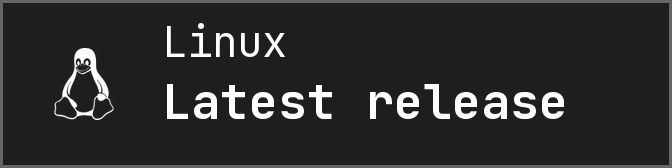
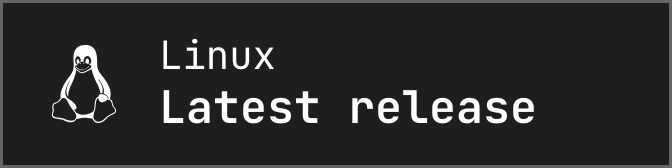
fix(docs): match desktop download badges to mobile
Vis-Session: 59b1f922-0dca-469c-83e7-5149d88409fd

Changed region(s): [[0.2188, 0.4762, 0.8438, 0.744], [0.2188, 0.1488, 0.4375, 0.4167], [0.0625, 0.2679, 0.1875, 0.744]]

diff --git a/apps/vis-docs/site.test.js b/apps/vis-docs/site.test.js
@@ -4,6 +4,7 @@ import { createHash } from 'node:crypto';
 import { JSDOM } from 'jsdom';
 import { security } from './headers.js';
 import { createTestHarness } from 'wrangler';
+import sharp from 'sharp';
 
 const htmlFiles = readdirSync('dist').filter((file) => file.endsWith('.html'));
 test('the canonical renderer builds documentation, with one exact CSS and no inline executables', () => {
@@ -222,8 +223,56 @@ test('the static upload contains only public output and the same security policy
   expect(config.assets.html_handling).toBe('none');
   expect(config.d1_databases[0].database_name).toBe('vis-extension-center');
 });
+
+test('desktop badge headings match the mobile font height and top inset', async () => {
+  // The desktop badges previously used larger type positioned above the mobile headings.
+  const headings = {};
+  const titles = [];
+  for (const name of ['testflight', 'google-play', 'macos', 'linux', 'windows']) {
+    const image = sharp(`../../resources/vis-docs/assets/install-${name}.png`);
+    const { data, info } = await image
+      .clone()
+      .extract({ left: 150, top: 3, width: 519, height: 81 })
+      .removeAlpha()
+      .raw()
+      .toBuffer({ resolveWithObject: true });
+    const rows = [];
+    for (let y = 0; y < info.height; y++) {
+      for (let x = 0; x < info.width; x++) {
+        const offset = (y * info.width + x) * info.channels;
+        if (data[offset] > 200 && data[offset + 1] > 200 && data[offset + 2] > 200) {
+          rows.push(y + 3);
+          break;
+        }
+      }
+    }
+    headings[name] = [rows[0], rows.at(-1)];
+    if (!['testflight', 'google-play'].includes(name)) {
+      // Allow glyph overshoot plus one raster pixel (1/3 CSS px) of antialiasing.
+      for (const edge of [0, 1]) {
+        const reference = [headings.testflight[edge], headings['google-play'][edge]];
+        expect(headings[name][edge], `${name}: heading edge ${edge}`).toBeGreaterThanOrEqual(
+          Math.min(...reference) - 1,
+        );
+        expect(headings[name][edge], `${name}: heading edge ${edge}`).toBeLessThanOrEqual(
+          Math.max(...reference) + 1,
+        );
+      }
+      titles.push(
+        await image
+          .extract({ left: 150, top: 84, width: 519, height: 81 })
+          .removeAlpha()
+          .raw()
+          .toBuffer(),
+      );
+    }
+  }
+  expect(titles[1]).toEqual(titles[0]);
+  expect(titles[2]).toEqual(titles[0]);
+});
+
 test('the static site exports sharp store badges without allowing inline scripts', () => {
-  for (const name of ['testflight', 'google-play']) {
+  for (const name of ['testflight', 'google-play', 'windows', 'macos', 'linux']) {
     const badge = readFileSync(`dist/assets/install-${name}.png`);
     expect(badge).toEqual(readFileSync(`../../resources/vis-docs/assets/install-${name}.png`));
     expect([badge.readUInt32BE(16), badge.readUInt32BE(20)]).toEqual([672, 168]);

diff --git a/README.md b/README.md
@@ -106,6 +106,8 @@ Download the installer for your computer from [GitHub Releases](https://github.c
 the Windows 10/11 x64 `.msi`, universal macOS `.dmg`, or Linux `.AppImage` matching your architecture.
 
 <p>
+<a class="store-windows" href="https://github.com/Blockether/vis/releases/latest"><img src="resources/vis-docs/assets/install-windows.png" alt="Latest desktop release for Windows" width="224" height="56"></a>
+<span aria-hidden="true">&nbsp;&nbsp;</span>
 <a class="store-macos" href="https://github.com/Blockether/vis/releases/latest"><img src="resources/vis-docs/assets/install-macos.png" alt="Latest desktop release for macOS" width="224" height="56"></a>
 <span aria-hidden="true">&nbsp;&nbsp;</span>
 <a class="store-linux" href="https://github.com/Blockether/vis/releases/latest"><img src="resources/vis-docs/assets/install-linux.png" alt="Latest desktop release for Linux" width="224" height="56"></a>

diff --git a/resources/vis-docs/index.md b/resources/vis-docs/index.md
@@ -127,6 +127,8 @@ Download the installer for your computer from
 `.msi`, universal macOS `.dmg`, or Linux `.AppImage` for x64 or ARM64.
 
 <div class="store-links" aria-label="Download the desktop app">
+<a class="store-windows" href="https://github.com/Blockether/vis/releases/latest"><img src="assets/install-windows.png" alt="Latest desktop release for Windows" width="224" height="56"></a>
+<span aria-hidden="true">&nbsp;&nbsp;</span>
 <a class="store-macos" href="https://github.com/Blockether/vis/releases/latest"><img src="assets/install-macos.png" alt="Latest desktop release for macOS" width="224" height="56"></a>
 <span aria-hidden="true">&nbsp;&nbsp;</span>
 <a class="store-linux" href="https://github.com/Blockether/vis/releases/latest"><img src="assets/install-linux.png" alt="Latest desktop release for Linux" width="224" height="56"></a>
